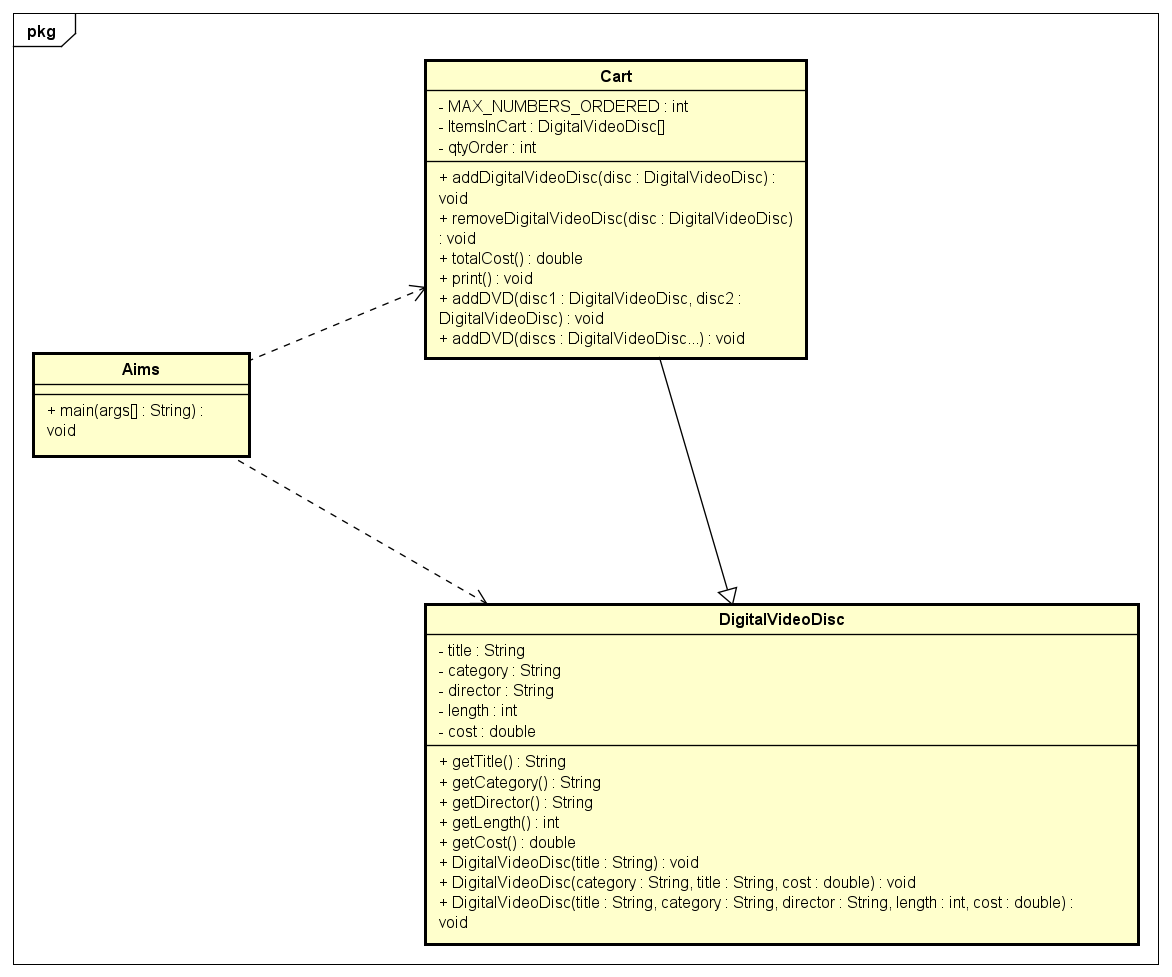
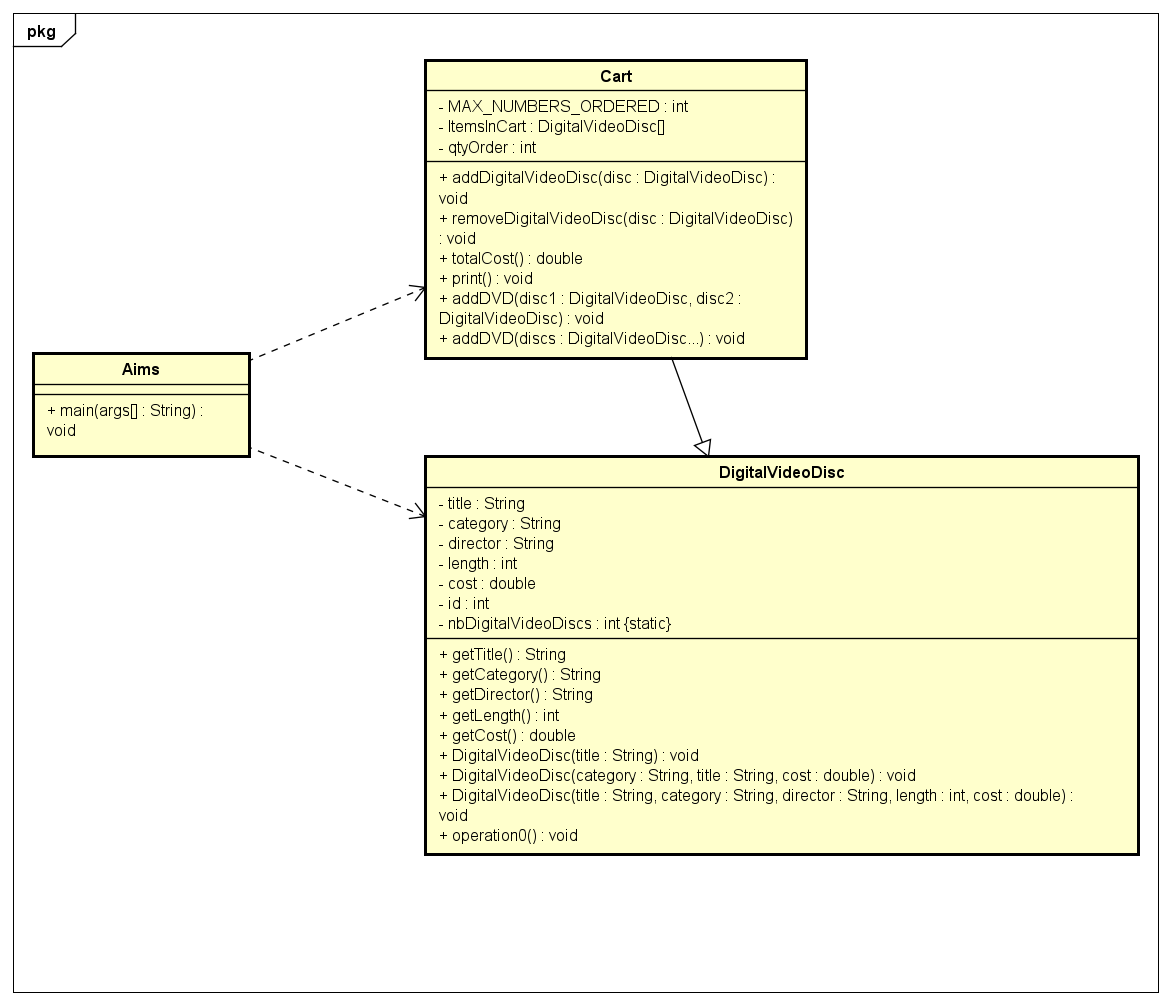
feat(dvd) : Implement ID management using classifier and instand members

diff --git a/AimsProject/src/com/hust/kstn/DigitalVideoDisc.java b/AimsProject/src/com/hust/kstn/DigitalVideoDisc.java
@@ -6,6 +6,8 @@ public class DigitalVideoDisc {
     private String director;
     private int length;
     private double cost;
+    private int id ;
+    private static int nbDigitalVideoDiscs = 0;
     public String getTitle() {
         return title;
     }
@@ -41,5 +43,8 @@ public class DigitalVideoDisc {
         this.title = title;
         this.cost = cost;
         this.length = length;
+        nbDigitalVideoDiscs++;
+        this.id = nbDigitalVideoDiscs;
     }
+
 }
